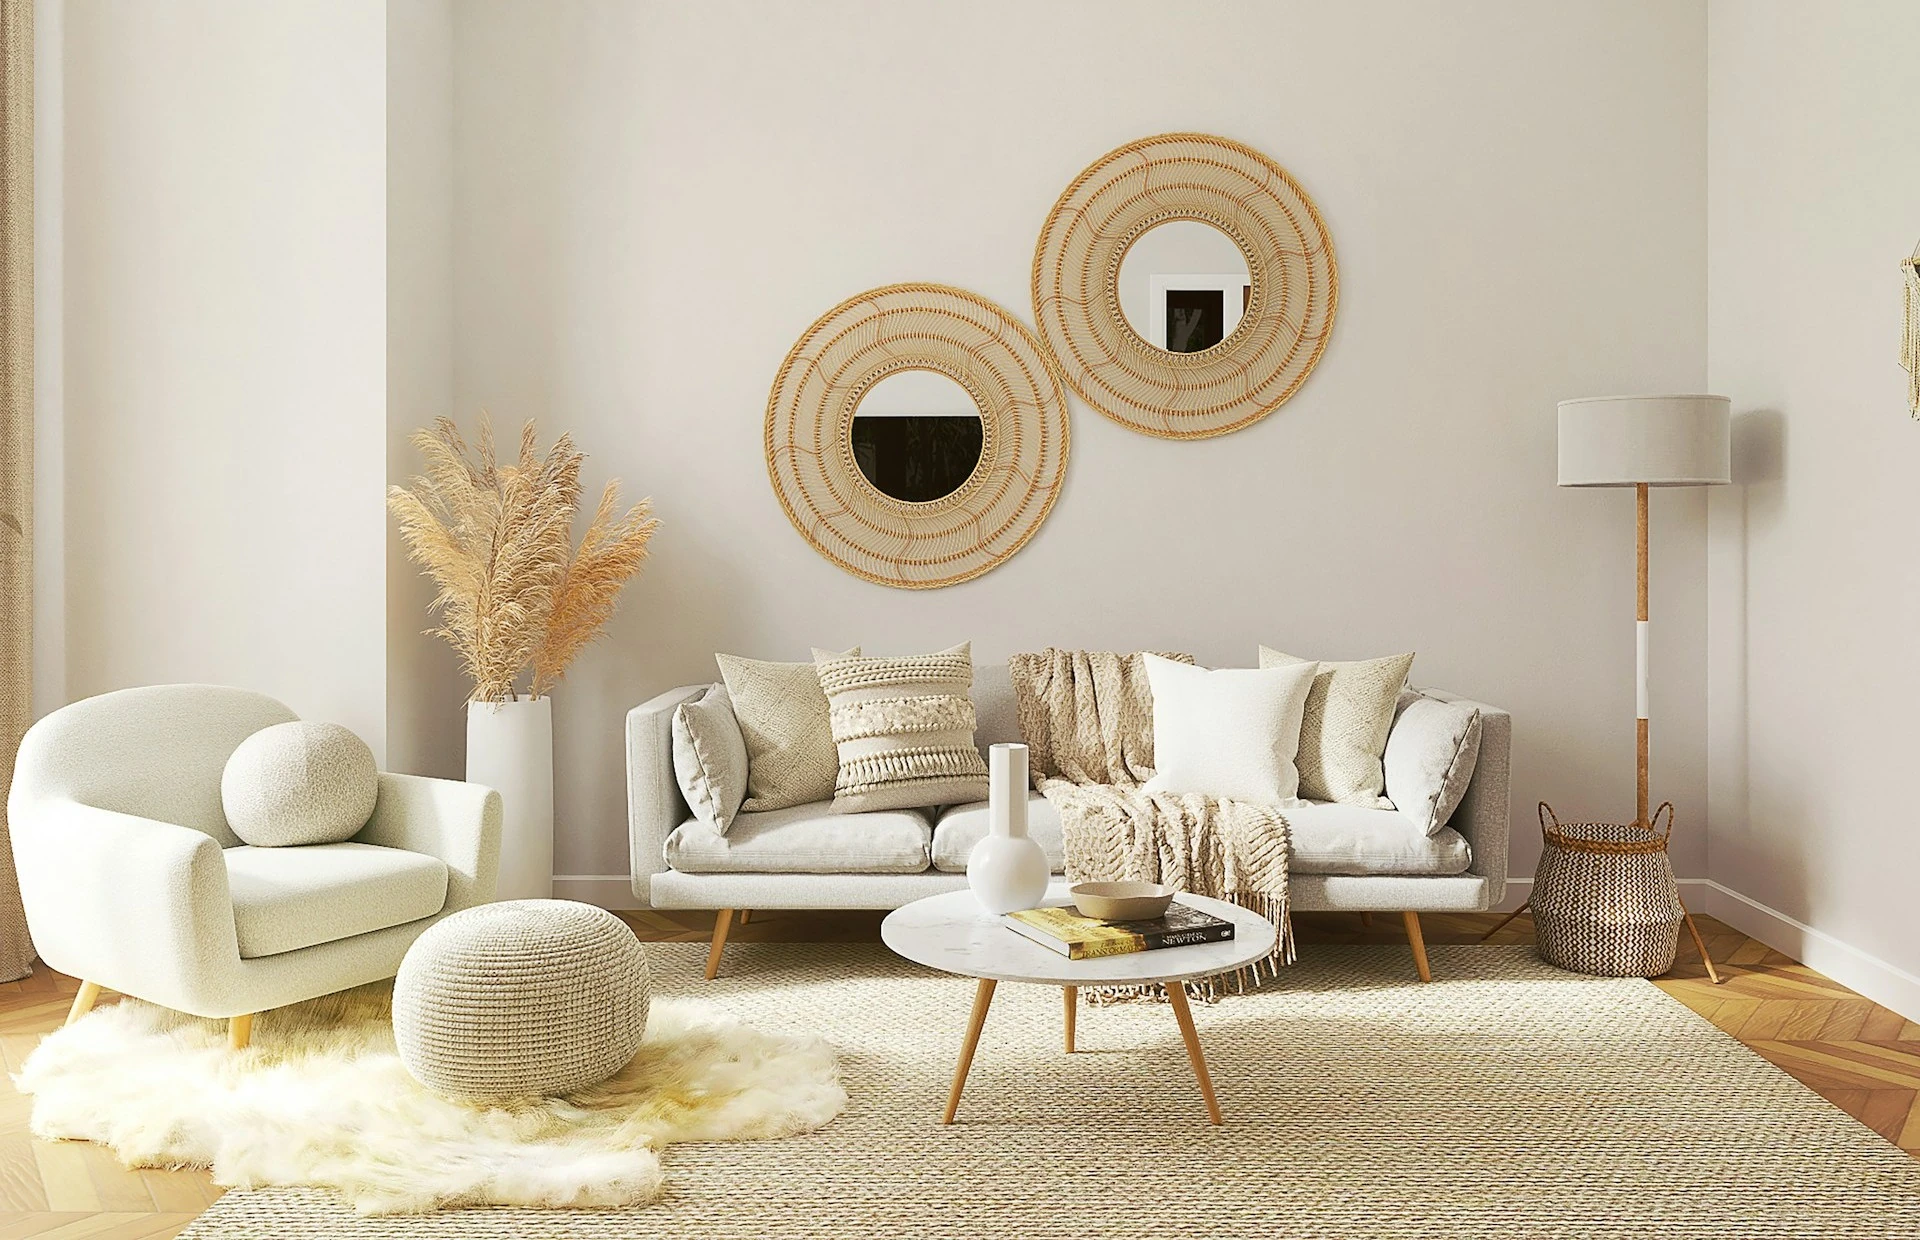
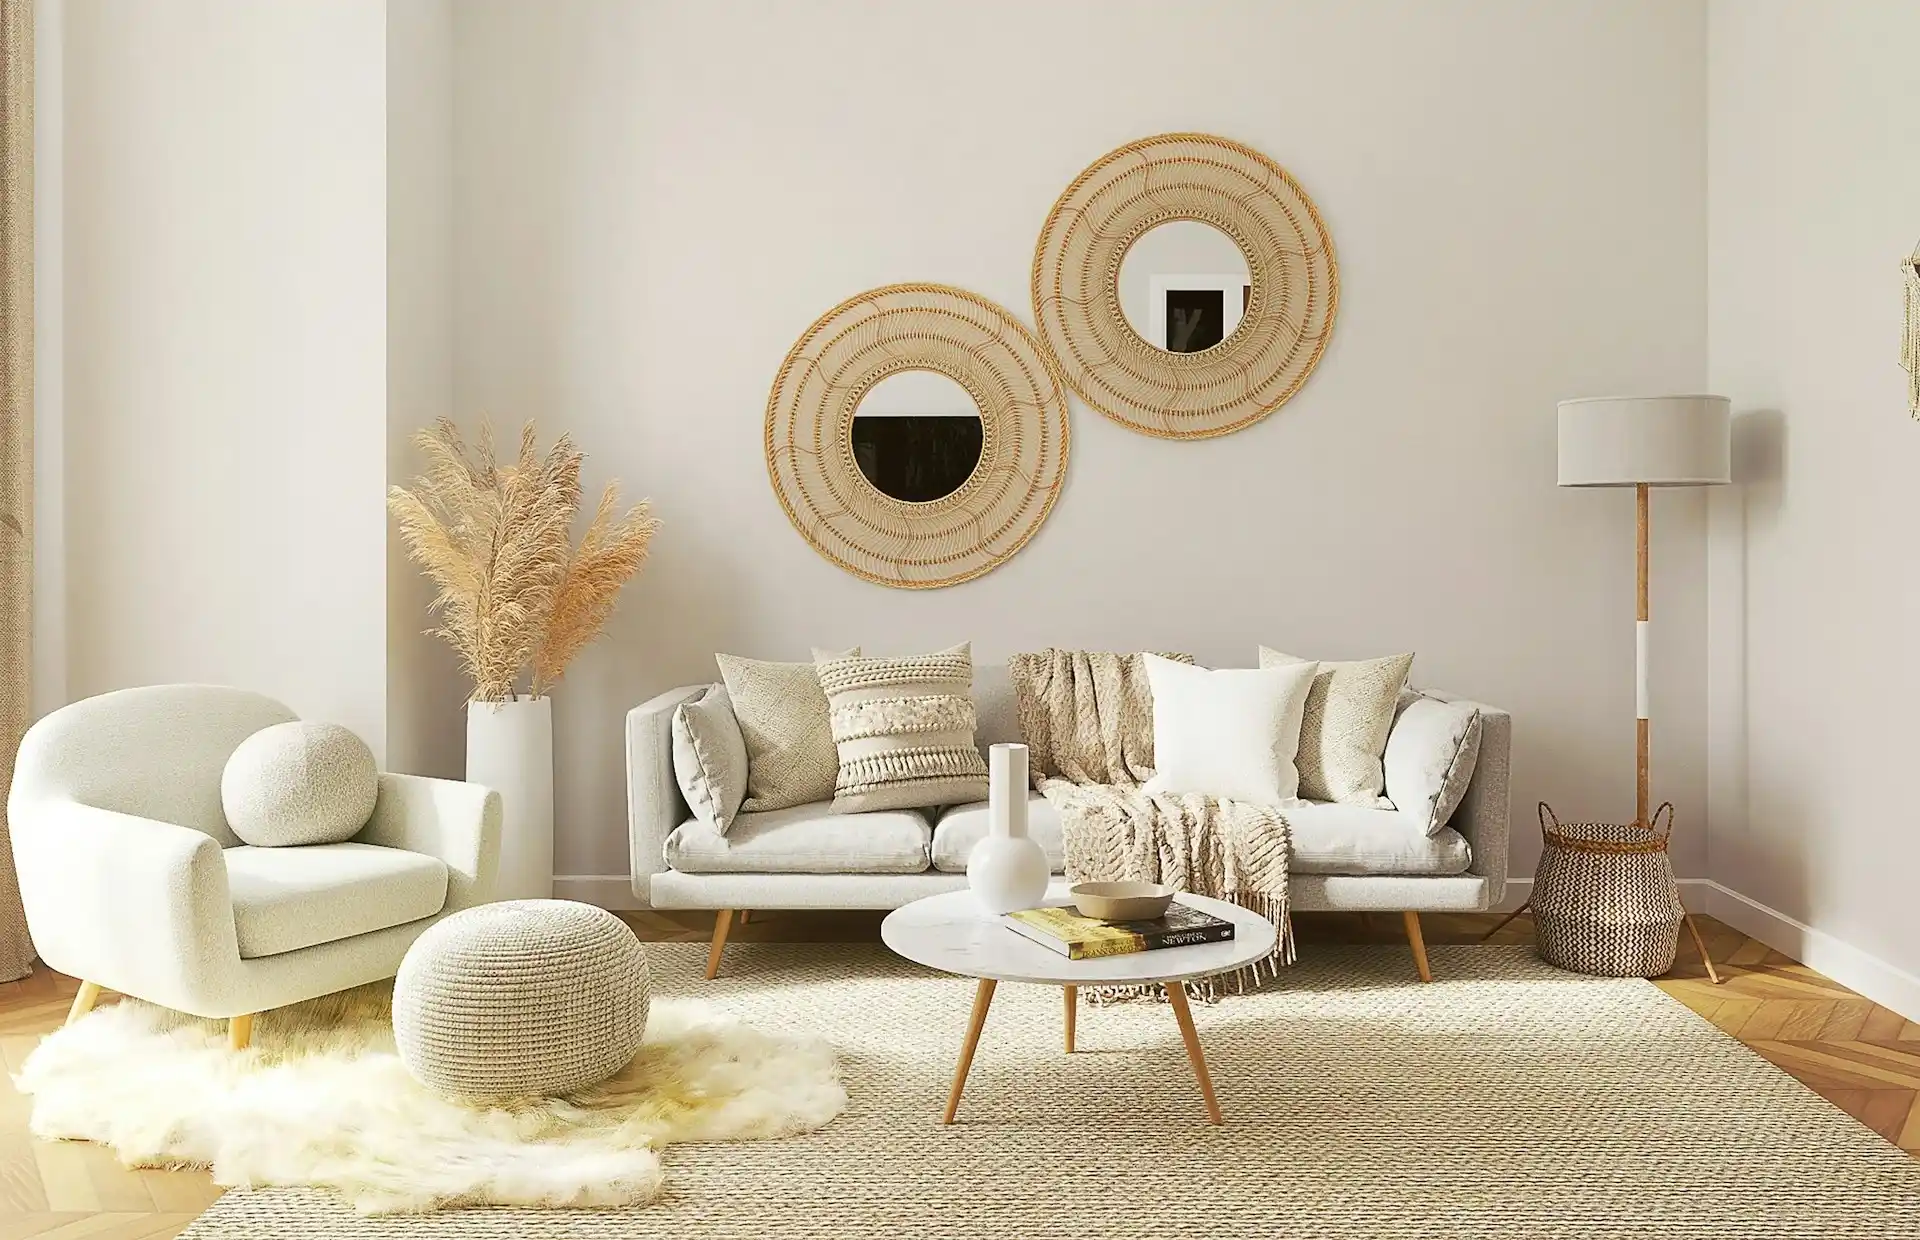
fix: re-optimised hero images

diff --git a/data/data.js b/data/data.js
@@ -53,7 +53,7 @@ export const items = [
       "A contemporary dining chair with a warm oatmeal coloured fabric upholstery and black metal legs, perfect for creating a cozy atmosphere in your dining room.",
     price: "54.99",
     image:
-      "/public/images/chairs/bari-oatmeal-mottled-velvet-dining-chairs-with-black-legs.webp",
+      "/images/chairs/bari-oatmeal-mottled-velvet-dining-chairs-with-black-legs.webp",
     dimensions: "",
     materials: "",
     finish: "",
@@ -69,7 +69,7 @@ export const items = [
       "A sleek and stylish dining chair with a dark grey faux leather upholstery and black metal legs, perfect for adding a modern touch to your dining space.",
     price: "59.99",
     image:
-      "/public/images/chairs/billie-dark-grey-faux-leather-dining-chairs-with-black-metal-legs.webp",
+      "/images/chairs/billie-dark-grey-faux-leather-dining-chairs-with-black-metal-legs.webp",
     dimensions: "",
     materials: "",
     finish: "",
@@ -84,7 +84,7 @@ export const items = [
     description:
       "A classic dining chair with a brown linen upholstery and wooden legs, perfect for a traditional dining room.",
     price: "49.99",
-    image: "/public/images/chairs/cabrini-dining-chairs-brown-linen.webp",
+    image: "/images/chairs/cabrini-dining-chairs-brown-linen.webp",
     dimensions: "",
     materials: "",
     finish: "",
@@ -100,7 +100,7 @@ export const items = [
       "A modern dining chair with a grey chenille fabric and chrome metal base, perfect for a contemporary dining space.",
     price: "69.99",
     image:
-      "/public/images/chairs/capri-grey-chenille-dining-chairs-with-chrome-metal-base.webp",
+      "/images/chairs/capri-grey-chenille-dining-chairs-with-chrome-metal-base.webp",
     dimensions: "",
     materials: "",
     finish: "",
@@ -116,7 +116,7 @@ export const items = [
       "A stylish accent chair with a bright yellow fabric upholstery and black metal legs, perfect for adding a pop of colour to your living room or bedroom.",
     price: "49.49",
     image:
-      "/public/images/chairs/clifton-accent-chair-yellow-fabric-accent-chair.webp",
+      "/images/chairs/clifton-accent-chair-yellow-fabric-accent-chair.webp",
     dimensions: "",
     materials: "",
     finish: "",
@@ -132,7 +132,7 @@ export const items = [
       "A comfortable swivel armchair with a soft antique green mottled velvet fabric, perfect for relaxing in your living room.",
     price: "199.99",
     image:
-      "/public/images/chairs/colette-360-degree-swivel-armchair-antique-green-mottled-velvet.webp",
+      "/images/chairs/colette-360-degree-swivel-armchair-antique-green-mottled-velvet.webp",
     dimensions: "",
     materials: "",
     finish: "",
@@ -148,7 +148,7 @@ export const items = [
       "A stylish upholstered bench with a soft grey fabric upholstery and wooden legs, perfect for adding a touch of elegance to your living room or bedroom.",
     price: "149.99",
     image:
-      "/public/images/chairs/isla-upholstered-bench-luxury-cream-textured-chenille.webp",
+      "/images/chairs/isla-upholstered-bench-luxury-cream-textured-chenille.webp",
     dimensions: "",
     materials: "",
     finish: "",
@@ -164,7 +164,7 @@ export const items = [
       "A set of modern dining chairs with a sleek black faux leather upholstery and chrome metal legs, perfect for a contemporary dining space.",
     price: "129.99",
     image:
-      "/public/images/chairs/juno-black-faux-leather-dining-chairs-with-chrome-legs.webp",
+      "/images/chairs/juno-black-faux-leather-dining-chairs-with-chrome-legs.webp",
     dimensions: "",
     materials: "",
     finish: "",
@@ -180,7 +180,7 @@ export const items = [
       "A set of modern dining chairs with comfortable fabric upholstery and oak legs, perfect for a contemporary dining space.",
     price: "129.99",
     image:
-      "/public/images/chairs/lusso-360-degree-swivel-dining-chairs-with-solid-oak-legs-toffee-textured-fabric.webp",
+      "/images/chairs/lusso-360-degree-swivel-dining-chairs-with-solid-oak-legs-toffee-textured-fabric.webp",
     dimensions: "",
     materials: "",
     finish: "",
@@ -196,7 +196,7 @@ export const items = [
       "A set of modern dining chairs with a soft cream chenille fabric and black metal legs, perfect for a contemporary dining space.",
     price: "129.99",
     image:
-      "/public/images/chairs/nori-modern-dining-chairs-cream-chenille-with-black-metal-legs.webp",
+      "/images/chairs/nori-modern-dining-chairs-cream-chenille-with-black-metal-legs.webp",
     dimensions: "",
     materials: "",
     finish: "",
@@ -212,7 +212,7 @@ export const items = [
       "A comfortable electric swivel recliner with zero gravity functionality and a soft pumpkin chenille fabric, perfect for relaxing in your living room.",
     price: "299.99",
     image:
-      "/public/images/chairs/utah-zero-gravity-swivel-electric-recliner-armchair-pumpkin-chenille-fabric.webp",
+      "/images/chairs/utah-zero-gravity-swivel-electric-recliner-armchair-pumpkin-chenille-fabric.webp",
     dimensions: "",
     materials: "",
     finish: "",
@@ -227,7 +227,7 @@ export const items = [
     description:
       "A modern armchair with a sleek design and a soft stone linen fabric, perfect for adding a touch of elegance to your living room.",
     price: "199.99",
-    image: "/public/images/chairs/windsor-modern-armchair-stone-linen.webp",
+    image: "/images/chairs/windsor-modern-armchair-stone-linen.webp",
     dimensions: "",
     materials: "",
     finish: "",
@@ -243,7 +243,7 @@ export const items = [
       "A stylish swivel accent chair with a soft oatmeal textured weave fabric, perfect for adding a touch of elegance to your living room.",
     price: "149.99",
     image:
-      "/public/images/chairs/zuri-swivel-accent-chair-oatmeal-soft-textured-weave-fabric.webp",
+      "/images/chairs/zuri-swivel-accent-chair-oatmeal-soft-textured-weave-fabric.webp",
     dimensions: "",
     materials: "",
     finish: "",
